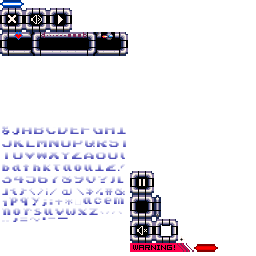
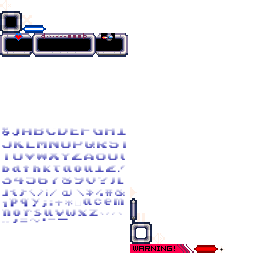
update UI graphics (remove black lines from some edges/corners)

Changed region(s): [[0.0, 0.5, 0.875, 1.0], [0.0, 0.0, 0.5, 0.25]]

diff --git a/core/src/main/kotlin/com/github/quillraven/darkmatter/ui/TextDialog.kt b/core/src/main/kotlin/com/github/quillraven/darkmatter/ui/TextDialog.kt
@@ -15,6 +15,7 @@ import ktx.scene2d.textButton
 private const val ELEMENT_PADDING = 7f
 private const val DIALOG_WIDTH_SCALE = 0.95f
 private const val DIALOG_HEIGHT_SCALE = 0.75f
+private const val SCROLL_PANE_PAD_RIGHT = -7f // align with background frame border
 
 class TextDialog(
     bundle: I18NBundle,
@@ -26,6 +27,7 @@ class TextDialog(
             labelCell.padLeft(ELEMENT_PADDING).padRight(ELEMENT_PADDING)
             onClick { hide() }
         })
+        buttonTable.pack()
 
         contentTable.defaults().fill().expand()
         contentTable.add(scene2d.scrollPane(SkinScrollPane.DEFAULT.name) {
@@ -37,8 +39,11 @@ class TextDialog(
                 wrap = true
                 setAlignment(Align.topLeft)
             }
-        }).padLeft(ELEMENT_PADDING).padTop(ELEMENT_PADDING)
+        }).padRight(SCROLL_PANE_PAD_RIGHT)
+        contentTable.pack()
 
+        // we don't scale or rotate the dialog -> set transform to false to
+        // avoid additional texture bindings and draw calls
         isTransform = false
     }
 

diff --git a/core/src/main/kotlin/com/github/quillraven/darkmatter/ui/ConfirmDialog.kt b/core/src/main/kotlin/com/github/quillraven/darkmatter/ui/ConfirmDialog.kt
@@ -11,7 +11,7 @@ import ktx.scene2d.scene2d
 import ktx.scene2d.textButton
 
 private const val ELEMENT_PADDING = 7f
-private const val DIALOG_WIDTH_SCALE = 0.75f
+private const val DIALOG_WIDTH_SCALE = 0.85f
 private const val DIALOG_HEIGHT_SCALE = 0.5f
 
 class ConfirmDialog(bundle: I18NBundle) : Dialog("", Scene2DSkin.defaultSkin, SkinWindow.DEFAULT.name) {
@@ -28,10 +28,13 @@ class ConfirmDialog(bundle: I18NBundle) : Dialog("", Scene2DSkin.defaultSkin, Sk
             wrap = true
             setAlignment(Align.center)
         })
+        contentTable.pack()
 
         buttonTable.defaults().padBottom(ELEMENT_PADDING)
         button(yesButton)
         button(noButton)
+        buttonTable.pack()
+
         // we don't scale or rotate the dialog -> set transform to false to
         // avoid additional texture bindings and draw calls
         isTransform = false

diff --git a/core/src/main/kotlin/com/github/quillraven/darkmatter/ui/skin.kt b/core/src/main/kotlin/com/github/quillraven/darkmatter/ui/skin.kt
@@ -100,15 +100,21 @@ private fun Skin.createImageButtonStyles(skin: Skin) {
         imageUp = skin.getDrawable(SkinImage.PAUSE.atlasKey)
         imageChecked = skin.getDrawable(SkinImage.PLAY.atlasKey)
         imageDown = imageChecked
+        up = skin.getDrawable(SkinImage.FRAME.atlasKey)
+        down = up
     }
     imageButton(SkinImageButton.QUIT.name) {
         imageDown = skin.getDrawable(SkinImage.QUIT.atlasKey)
         imageUp = imageDown
+        up = skin.getDrawable(SkinImage.FRAME.atlasKey)
+        down = up
     }
     imageButton(SkinImageButton.SOUND_ON_OFF.name) {
         imageUp = skin.getDrawable(SkinImage.SOUND_ON.atlasKey)
         imageChecked = skin.getDrawable(SkinImage.SOUND_OFF.atlasKey)
         imageDown = imageChecked
+        up = skin.getDrawable(SkinImage.FRAME.atlasKey)
+        down = up
     }
 }
 
